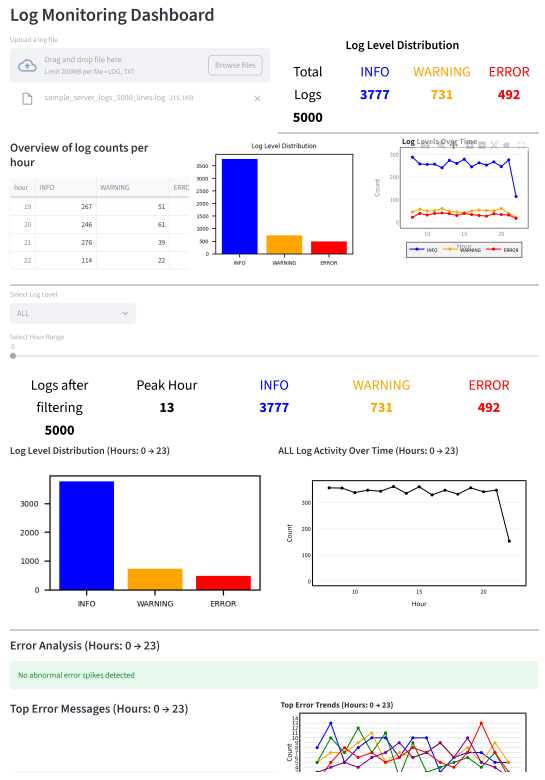
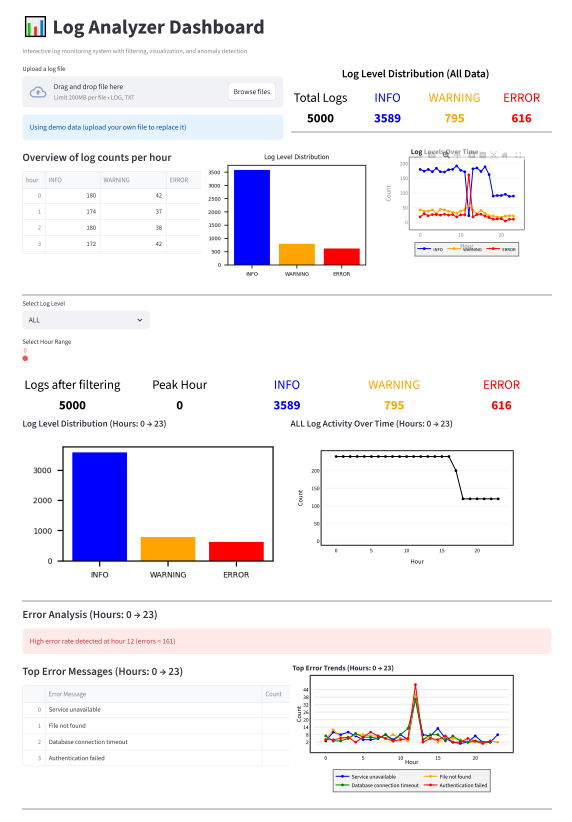
Initial commit

diff --git a/dashboard.py b/dashboard.py
@@ -9,6 +9,16 @@ import pandas as pd
 import matplotlib.pyplot as plt
 
 st.set_page_config(layout="wide", page_title="Log Analyzer Dashboard")
+
+
+st.markdown("""
+<style>
+.block-container {
+    padding-top: 1.3rem;
+}
+</style>
+""", unsafe_allow_html=True)
+
 st.title("📊 Log Analyzer Dashboard")
 st.caption("Interactive log monitoring system with filtering, visualization, and anomaly detection")
 #st.markdown("## Log Monitoring Dashboard")

diff --git a/README.md b/README.md
@@ -1,4 +1,4 @@
-# Log Analyzer Dashboard
+# 📊 Log Analyzer Dashboard
 
 An interactive log monitoring dashboard built with Python, Pandas, and Streamlit.
 
